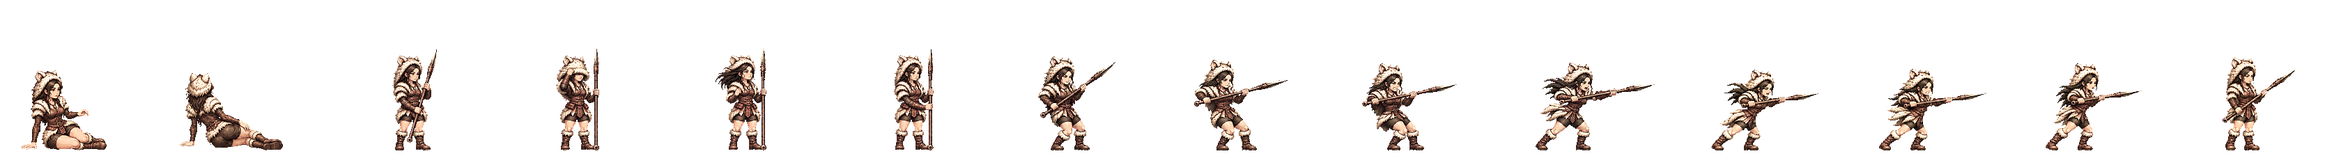
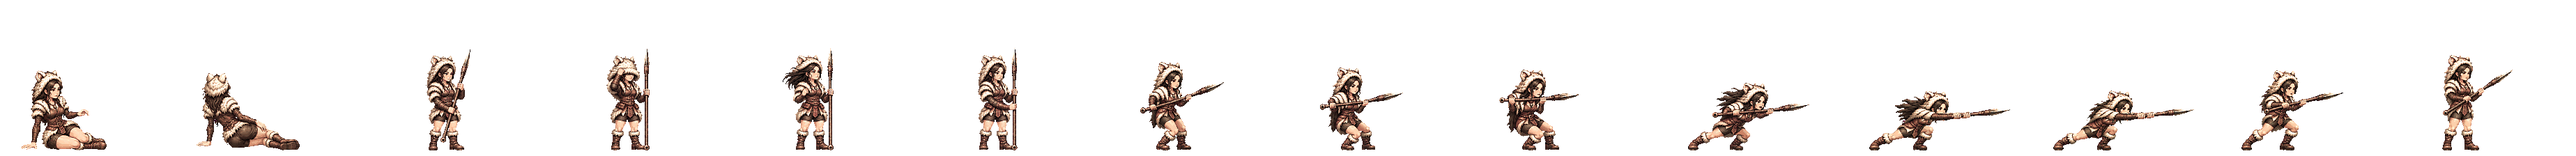
부여 사냥꾼 창 찌르기를 새 인형으로 다시 — 낮게 뛰어들어 두 팔을 곧게 뻗는 칸
해적 두목 시범(형 「나쁘지 않다」)을 옮겼다. T1 · T2 를 받아 HEROES 에 src='thrust2', actw=264. 띠 검사 합격(경고: 서기 발 가운데 +21 · 공격 끝 칸 윗몸 -10).

Claude-Session: https://claude.ai/code/session_01TRiuN7s6aDfSnaHxrkctmU

diff --git a/tools/sprite-kit/anim-harness.py b/tools/sprite-kit/anim-harness.py
@@ -45,7 +45,7 @@ HEROES = {
     'pirate': dict(strip='gen-base-w-10-pirate-captain', atk='thrust', src='thrust2', actw=264, atk8=True, act=True, legacy=(('a', 2), ('a', 3), ('b', 3), ('b', 4))),   # 해적 두목(작살) · 끝까지 찌른 칸은 좁은 칸에 안 들어가 당기는 칸으로
     'diver': dict(strip='gen-base-w-17-mahan-pearl-diver', atk='thrust', atk8=True, act=True, legacy=(('a', 1), ('a', 2), ('a', 3), ('a', 1)),
                   cells8=[('a', 1), ('a', 2), ('a', 3), ('a', 4), ('a', 4), ('a', 3), ('a', 2), ('a', 1)]),   # 해녀(작살) · 뒤 판 b 는 그림 도구가 거절 → 앞 판으로: 타격 = 넷째(a4) · wire-hero hit=3
-    'huntress': dict(strip='gen-base-w-06-buyeo-huntress', atk='thrust', atk8=True, act=True, legacy=(('a', 2), ('a', 3), ('b', 3), ('b', 4))),   # 부여 사냥꾼(창)
+    'huntress': dict(strip='gen-base-w-06-buyeo-huntress', atk='thrust', src='thrust2', actw=264, atk8=True, act=True, legacy=(('a', 2), ('a', 3), ('b', 3), ('b', 4))),   # 부여 사냥꾼(창)
     'dallae': dict(strip='gen-base-w-64-miri-dallae', atk='thrust', atk8=True, act=True, legacy=(('a', 2), ('a', 3), ('b', 3), ('b', 4))),   # 미리 군주 달래(창)
     'ara': dict(strip='gen-ara', atk='slash', atk8=True, act=True, legacy=(('a', 1), ('a', 3), ('b', 2), ('b', 4))),   # 가야 검사 아라(한 손 칼) · 좁은 칸: 머리 위로 곧게 세운 a2 는 위가, 끝까지 벤 b1 은 앞이 넘친다
     'dtiger': dict(strip='gen-base-w-22-dongye-tiger-huntress', atk='thrust', atk8=True, act=True, legacy=(('a', 2), ('a', 3), ('b', 3), ('b', 4))),   # 동예 범 사냥꾼(창)
